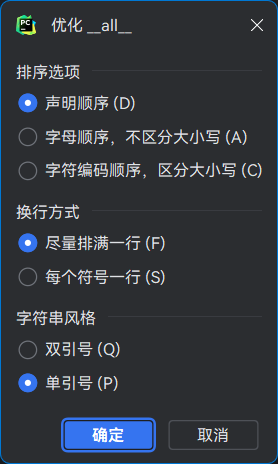
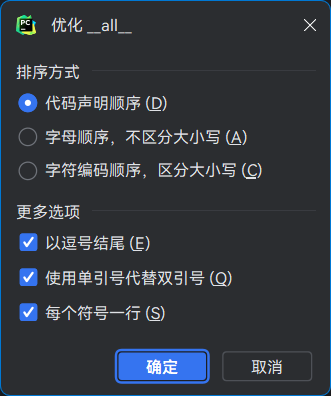
docs: 列出功能列表，更正“优化__all__”的示意图

diff --git a/README.md b/README.md
@@ -2,44 +2,44 @@
 
 一个 PyCharm 小插件，用于提升自己的 Python 开发体验。
 
+| 功能             | 键位               | 菜单                           |
+|----------------|------------------|------------------------------|
+| 优化 \_\_all\_\_ | `Ctrl` `Alt` `D` | 代码 -> 优化 \_\_all\_\_         |
+| 生成 \_\_all\_\_ | -                | (右键) -> 生成... -> \_\_all\_\_ |
+| 生成 Shebang 行   | -                | (右键) -> 生成... -> Shebang 行   |
+
 ## 安装
 
-目前需要手动编译安装。
+1. 点击[这里](https://github.com/aixcyi/TinySnake/releases)下载 jar 文件；
+2. 点击 PyCharm 插件管理的右上方管理菜单，选择 **从磁盘安装插件...** 。
 
-1. 克隆这个项目并使用 IDEA 打开；
-2. 在右上方的运行配置或右侧的 Gradle 里找到 `Build Plugin` 并运行，得到编译后的插件；
-3. 在 PyCharm 的插件中选择 **从磁盘中导入** ，它默认放在 `./build/distributions` 里面。
-
-![](./.img/installation.png)
-
-## 更新
-
-1. `git fetch` 、 `git pull` 这个项目，或者作出自己需要的修改；
-2. 通过 `Build Plugin` 重新编译；
-3. 在 PyCharm 的插件中 **卸载** Tiny Snake，然后关掉设置窗口；
-4. 重新打开 PyCharm 中的插件面板，选择 **从磁盘中导入** 。不必重启整个 PyCharm。
+![从磁盘安装插件的示意图](./.img/installation.png)
 
 ## 功能
 
-### 生成 `__all__`
+### 生成 \_\_all\_\_
 
-按照符号声明顺序列出所有一般来说可以导出的符号，包括但不限于
+按照符号声明顺序列出所有一般来说可以导出的符号，包括
 
-1. 顶层作用域中所有不以下划线开头的变量、函数和类
-2. 顶层作用域中 `if` 语句体内的 (1.)
+1. 顶层作用域中所有不以下划线开头的变量、函数和类；
+2. 顶层作用域中 `if` 语句体内的所有不以下划线开头的变量、函数和类。
 
-以下符号绝对不会展示
+以下符号不会被收录
 
 - 特殊变量，例如 `__author__`
 - 私有符号，例如 `_var` 、 `_func()` 、 `_InnerClass`
-- 循环解包的变量，例如 `for i in range(10)` 中的 `i`
+- 在 `for` 循环中解包的变量，例如 `for i in range(10)` 中的 `i`
 - 导入的符号
 
-灰色的是已经在 `__all__` 中的符号，可以重复选择，但不会被加进去。
-
-可以在 菜单栏->代码->生成 中找到，也可以在编辑器的右键菜单中找到。
+灰色的是已经在 `__all__` 中的符号，可以重复选择，但不会重复添加，也不会影响添加顺序。
 
 ![生成DunderAll的示意图](./.img/generate-dunder-all.png)
+
+### 优化 \_\_all\_\_
+
+提供了对 `__all__` 变量值的优化，包括排序、换行方式以及字符串风格。
+
+![优化DunderAll的示意图](./.img/optimize-dunder-all.png)
 
 ### 生成 Shebang 行
 
@@ -49,21 +49,11 @@
 
 预置了几种常见于 Python 脚本的 Shebang，还可以选择基于项目的路径、绝对路径以及自定义文本（方便粘贴）等。
 
-可以在 菜单栏->代码->生成 中找到，也可以在编辑器的右键菜单中找到。
-
 写 Python 脚本的同时还记不住 Shebang 的时候挺重要的，其它情况下聊胜于无。
 
 没有考虑自定义预置项目，毕竟这插件就是面向 PyCharm 的，加上常用的 Shebang 也就那么几条。
 
 ![生成Shebang的示意图](./.img/generate-shebang.png)
-
-### 优化 `__all__`
-
-提供了对 `__all__` 值的优化，包括排序、换行方式以及字符串风格。默认快捷键是 `Ctrl+Alt+D` 。
-
-在 菜单栏 -> 代码 中可以找到。
-
-![优化DunderAll的示意图](./.img/optimize-dunder-all.png)
 
 ## 反馈
 
